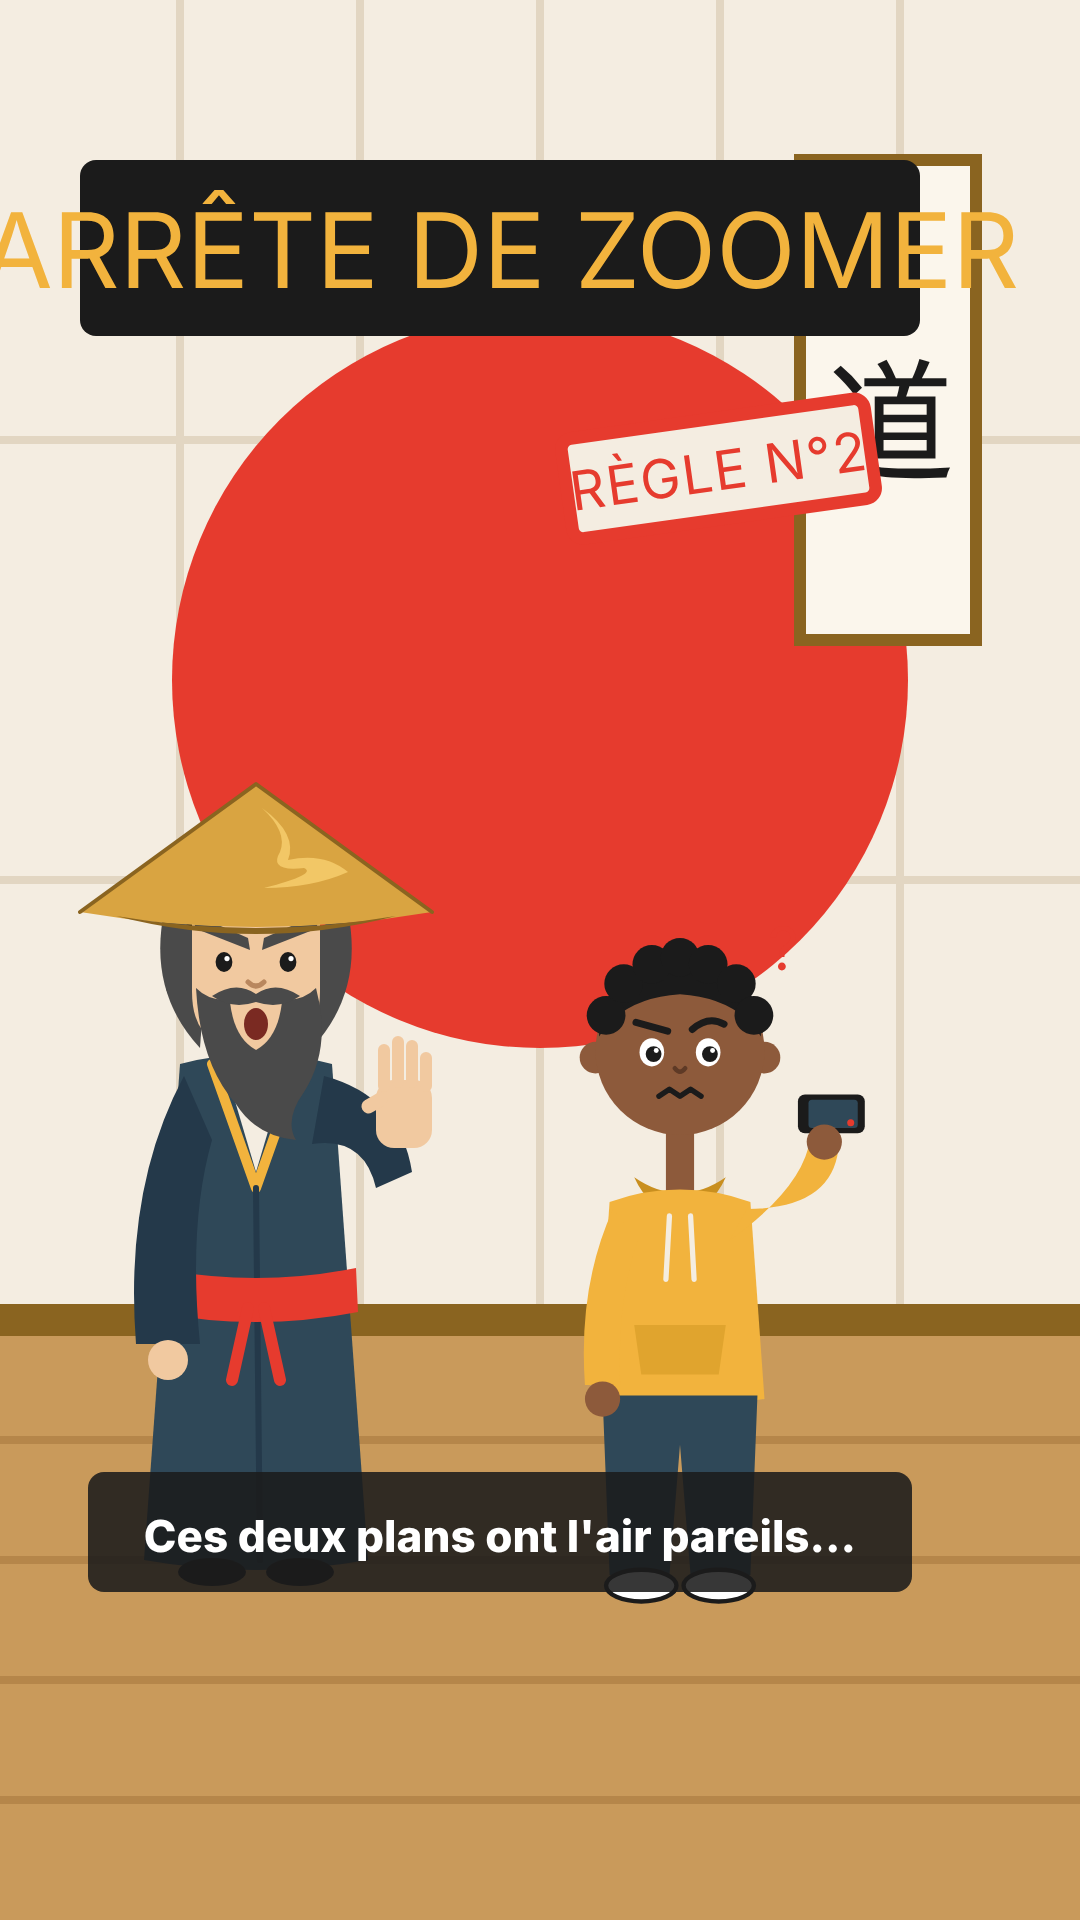
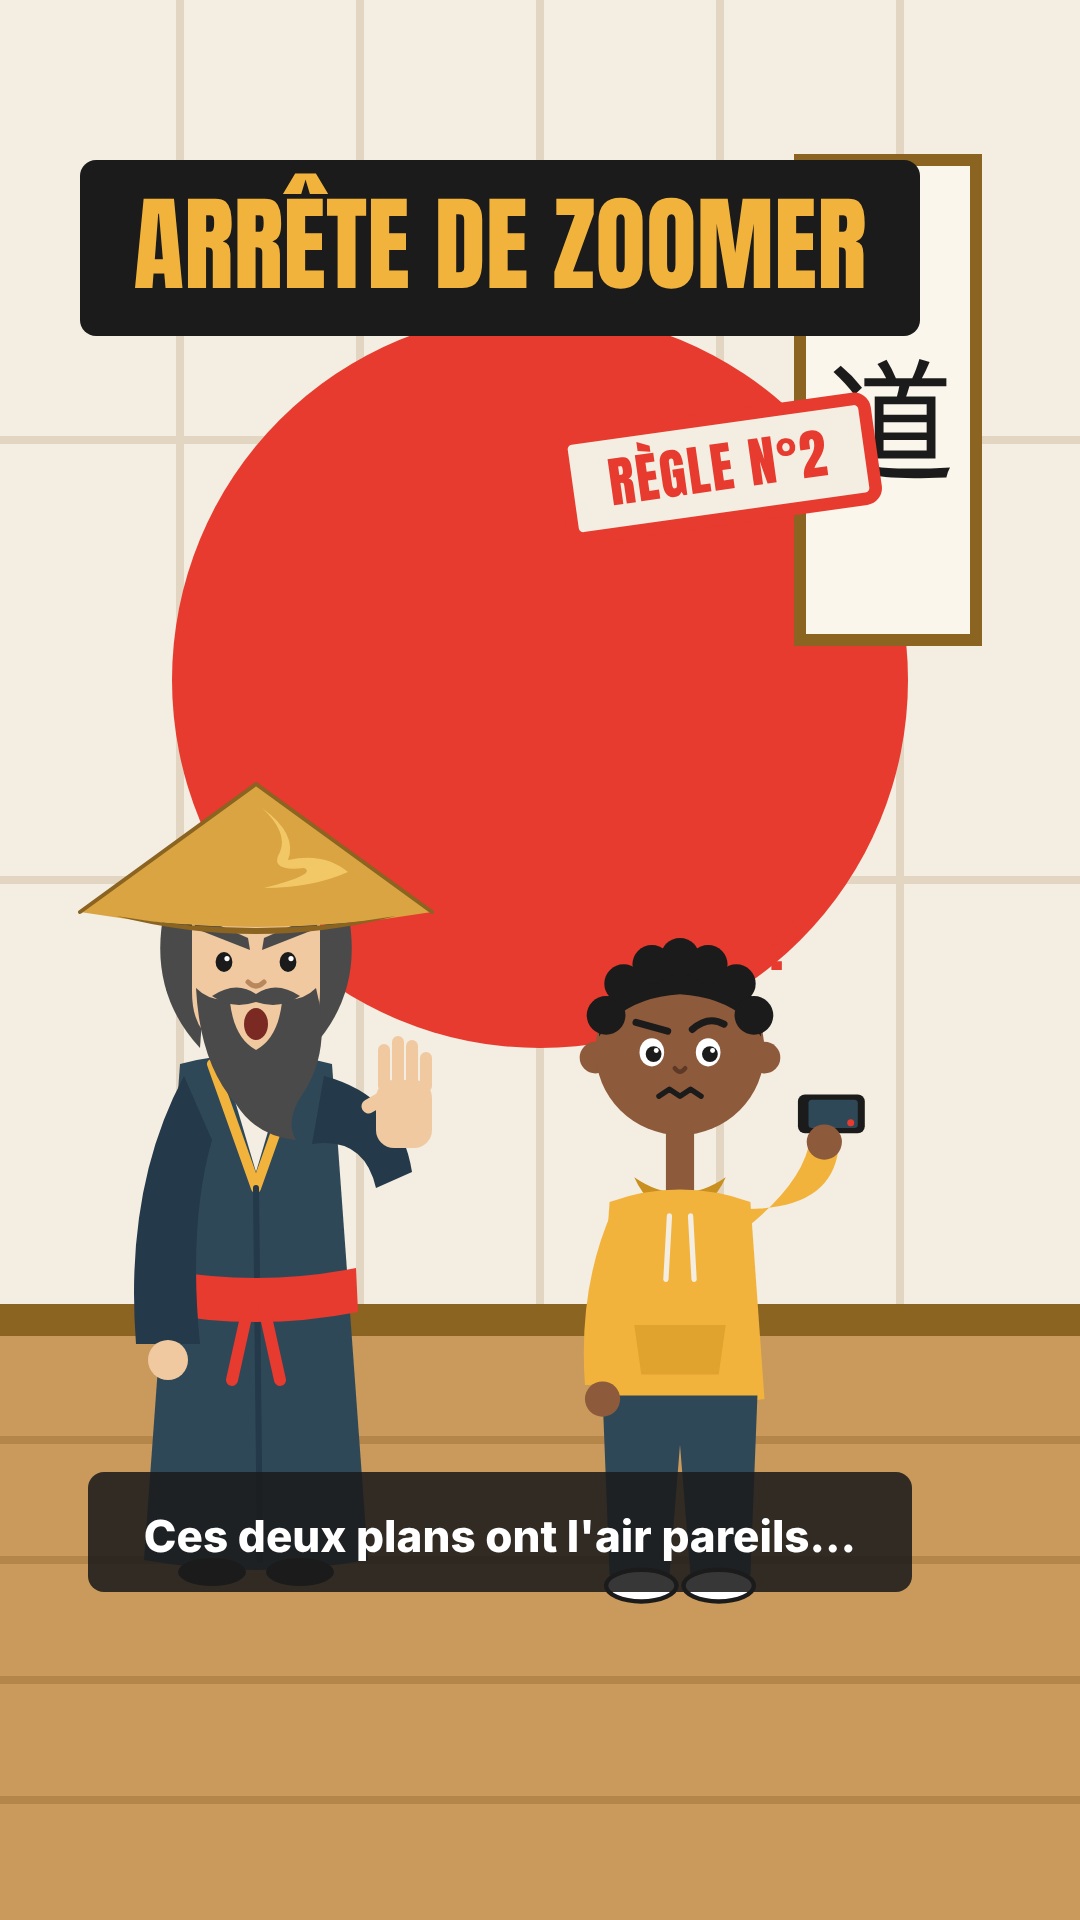
Corrige la police du titre dans la maquette PNG
Claude-Session: https://claude.ai/code/session_014H8PLQbwzGHoqbMrbsgU2y

Changed region(s): [[0.0, 0.0938, 0.9472, 0.1562], [0.5194, 0.2188, 0.7944, 0.2812]]

diff --git a/reels/brand/build/render.js b/reels/brand/build/render.js
@@ -7,7 +7,10 @@ const path = require('path'); const { chromium } = require('playwright');
   await p.evaluate(() => document.fonts.ready);
   await p.pdf({ path: path.join(__dirname, '..', 'Bible-graphique-La-Voie-du-Pixel.pdf'), printBackground: true, preferCSSPageSize: true });
   const m = await b.newPage({ viewport: { width: 1080, height: 1920 } });
-  await m.goto('file://' + path.join(__dirname, '..', 'maquettes', 'maquette-reel.svg'));
+  const svg = require('fs').readFileSync(path.join(__dirname, '..', 'maquettes', 'maquette-reel.svg'), 'utf8');
+  await m.setContent('<html><head><link href="https://fonts.googleapis.com/css2?family=Anton&display=swap" rel="stylesheet">'
+    + '<style>body{margin:0}svg{display:block}</style></head><body>' + svg + '</body></html>', { waitUntil: 'networkidle' });
+  await m.evaluate(() => document.fonts.ready);
   await m.screenshot({ path: path.join(__dirname, '..', 'maquettes', 'maquette-reel.png') });
   await b.close(); console.log('rendu ok');
 })();
